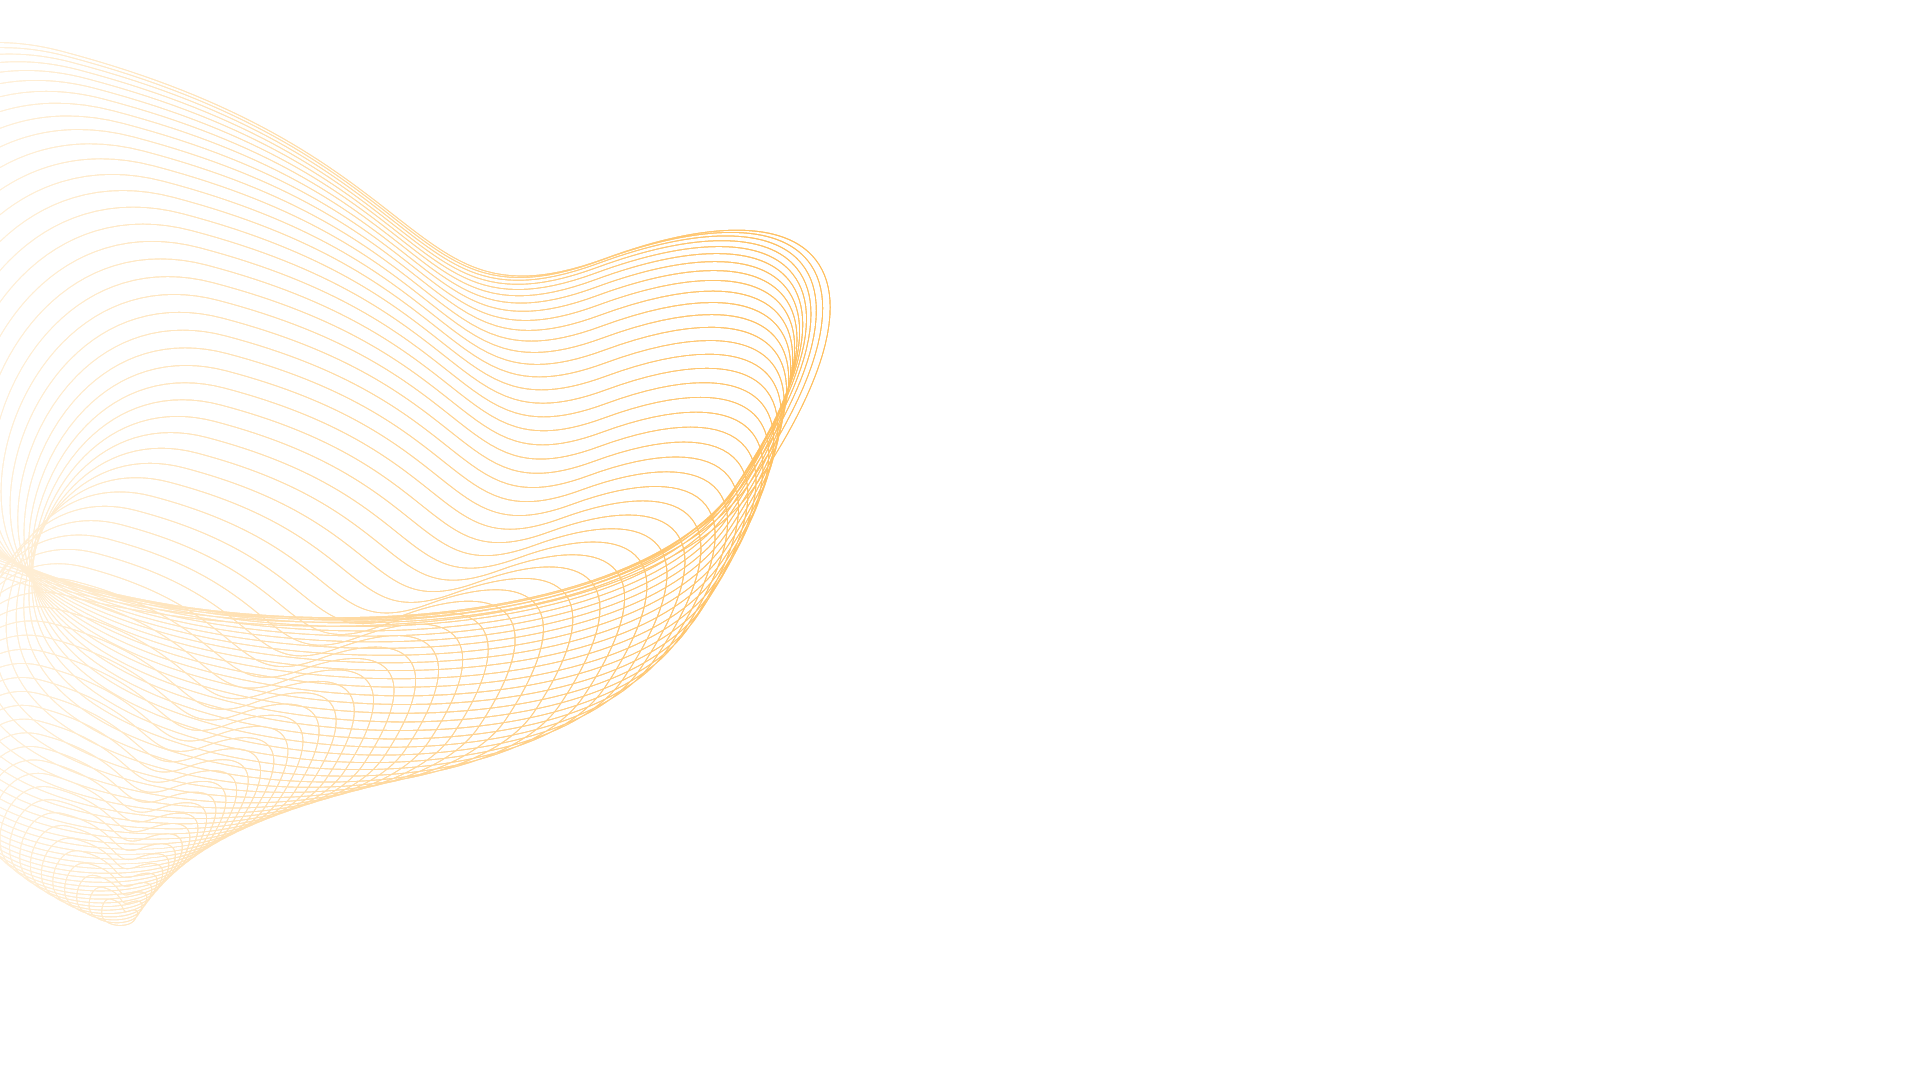
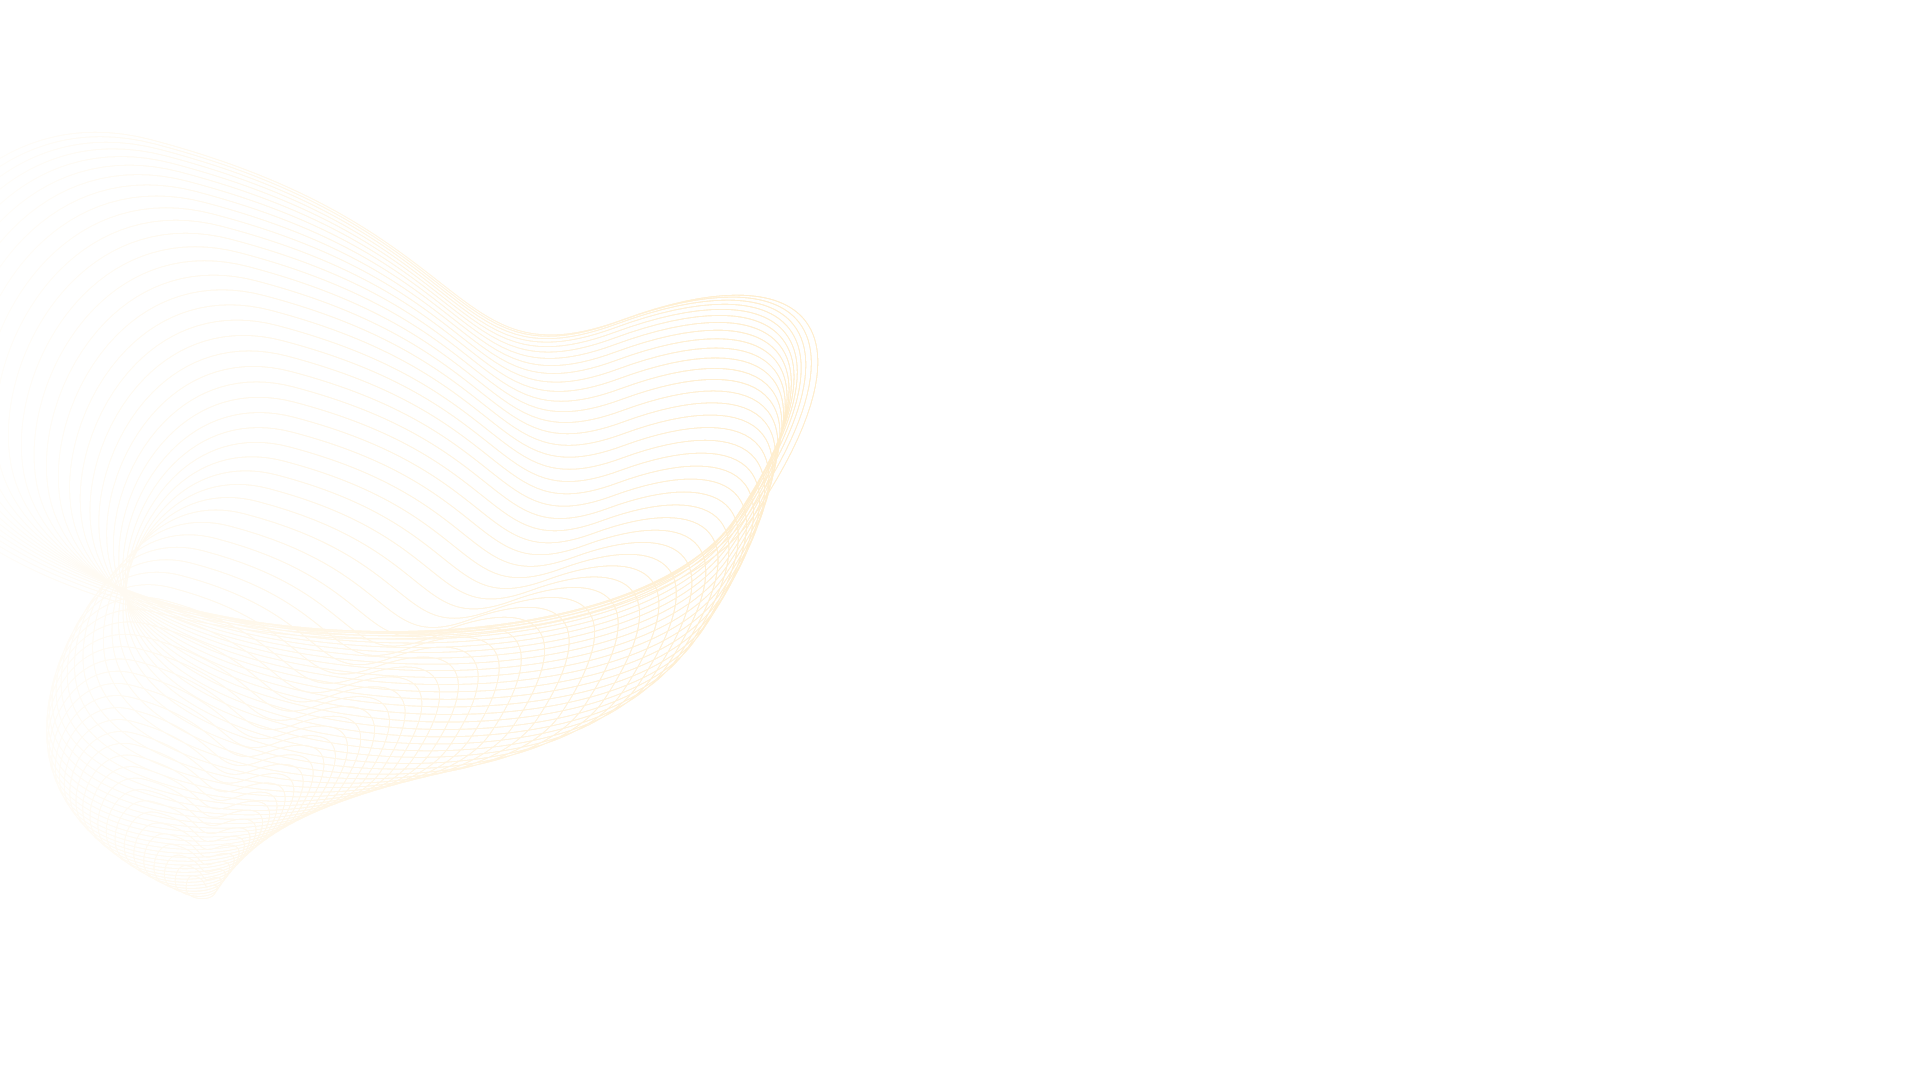
All section fully completed

Changed region(s): [[0.0, 0.0306, 0.4375, 0.8556]]

diff --git a/index.html b/index.html
@@ -14,21 +14,19 @@
 </head>
 
 <body>
-    <section class="top-banner-image">
+    <section class="top-banner-image flexible-section">
         <div class="half-width">
             <h1>Hello, This is <span class="color">A S M Saim.</span> </h1>
             <h1>Nice to Have You Here!</h1>
-            <h3>I am a web developer </h3>
-            <p>In my role as a web developer, I possess specialized knowledge in constructing and sustaining websites
-                and
-                web-based applications. By utilizing programming languages such as HTML, CSS, and JavaScript, I can
-                craft
-                sites that are engaging, dynamic, and responsive. Additionally, I ensure the smooth functioning of
-                websites
-                by optimizing their performance and safeguarding against potential security threats. Ultimately, my work
-                as
-                a web developer is vital in shaping the digital landscape and providing seamless online experiences for
-                users worldwide.</p>
+            <h3 class="coil-color">I am a web developer </h3>
+            <p>As a web developer, I possess specialized knowledge in constructing and sustaining websites and web-based
+                applications using programming languages such as HTML, CSS, and JavaScript. I am skilled in creating
+                engaging, dynamic, and responsive websites while ensuring their smooth functioning by optimizing their
+                performance and safeguarding them against potential security threats. Alongside my web development
+                expertise, I am also certified in SEO by eShikon Academy and Google Digital Garage and have completed an
+                Email Marketing Course from HubSpot Academy. Currently, I am working as an Academic Writer at Livingston
+                Research, where I bring my technical skills and writing abilities together to deliver top-quality work.
+            </p>
             <a target="_blank" class="link-open-button" href="https://www.linkedin.com/in/a-s-m-saim-172a4b161/">HIRE
                 ME</a>
         </div>
@@ -36,7 +34,7 @@
             <img src="images/profile-photo.png" alt="circle photo of me">
         </div>
     </section>
-    <section class="career-objective">
+    <section class="career-objective flexible-section">
         <div class="half-width" class="half-width">
             <img src="images/resume-photo.png" alt="download-resume-photo">
         </div>
@@ -46,12 +44,48 @@
                 learn new skills, expand my knowledge,<br>
                 and leverage my learnings so that I can be
                 an asset to the organization I am a part of.</p>
-            <a target="_blank" class="resume-button" href="https://www.linkedin.com/in/a-s-m-saim-172a4b161/">DOWNLOAD
+            <a target="_blank" class="resume-button"
+                href="https://drive.google.com/file/d/13LYqycHaJyluWkQ5KugJ_2-z3QPlfk9L/view?usp=sharing">DOWNLOAD
                 RESUME</a>
 
         </div>
     </section>
+    <section class="experience-section">
+        <h1>Experiences</h1>
+        <div class="flexible-section">
+            <div id="experience-left-side" class="experience-area">
+                <h2>Academic Writer-(Remote)</h2>
+                <h3 class="coil-color">Livingston Research | London, England</h3>
+                <h3 class="coil-color">March 2023 to Present</h3>
+                <p>I write articles, blog posts, and other types of content based on client requirements, adhering to
+                    guidelines and instructions provided by clients and Livingston Research. I communicate effectively
+                    with
+                    clients, manage my workload, and prioritize tasks to ensure timely delivery of assignments. I adapt
+                    to
+                    different writing styles and formats and continuously improve my skills through education and
+                    industry
+                    publications.</p>
+            </div>
+            <div id="experience-right-side" class="experience-area">
+                <h2>Traning Summary</h2>
+                <i>
+                    <h3 class="coil-color">Brac IT Tech Summit & Career Workshop <br>
+                        BracIT Ltd. 2022 <br>
+                    </h3>
+                </i>
+                <i>
+                    <h3 class="coil-color">Career Seminar of Leads Corporation <br>
+                        Leads Corporation Ltd. 2020 <br>
+                    </h3>
+                </i>
 
+            </div>
+        </div>
+    </section>
+    <footer>
+        <p>ⓒ2023. A S M Saim <br>
+            All Rights Reserved.</p>
+    </footer>
 
 </body>
 

diff --git a/style.css b/style.css
@@ -11,7 +11,7 @@ h1 {
     color: darkorange;
 }
 
-section {
+.flexible-section {
     display: flex;
     margin-bottom: 150px;
 }
@@ -50,7 +50,44 @@ section {
 }
 
 .career-objective {
-    background-image: url(images/dna-explusion\ .png);
+    background-image: url(images/2nd-bg.png);
     background-repeat: no-repeat;
     background-position: right;
+}
+
+.coil-color {
+    color: dimgray;
+}
+
+.experience-area {
+    width: 40%;
+    margin-left: 5%;
+    margin-right: 5%;
+    padding-left: 20px;
+    padding-right: 20px;
+    border-radius: 10px;
+
+    box-shadow: 10px 10px 40px gray;
+}
+
+.experience-section {
+    background-image: url(images/futter.png);
+    background-position: left;
+}
+
+#experience-right-side {
+    border-left: 7px solid;
+    border-image: linear-gradient(blue, cyan);
+    border-image-slice: 1;
+}
+
+#experience-left-side {
+    border-left: 7px solid;
+    border-image: linear-gradient(#FFC988, #E288F9);
+    border-image-slice: 1;
+
+}
+
+footer p {
+    text-align: center;
 }
